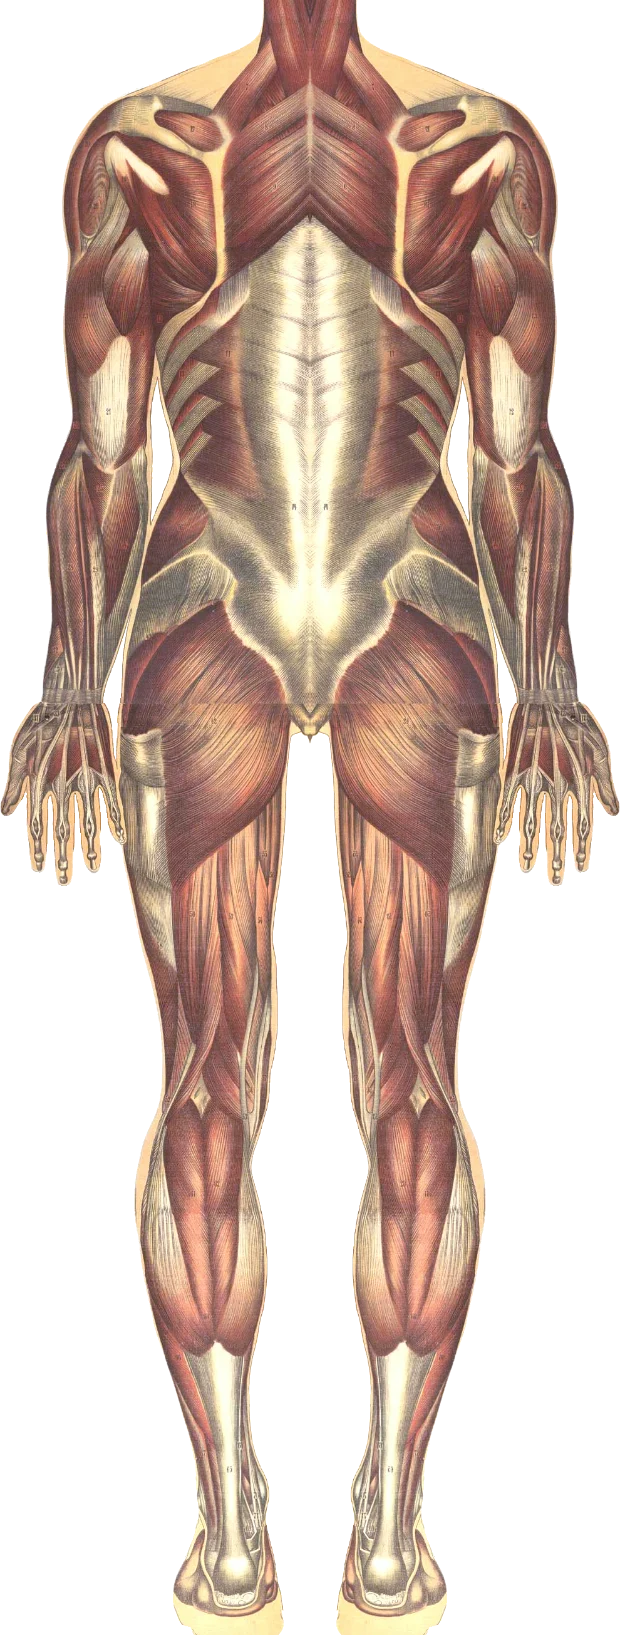
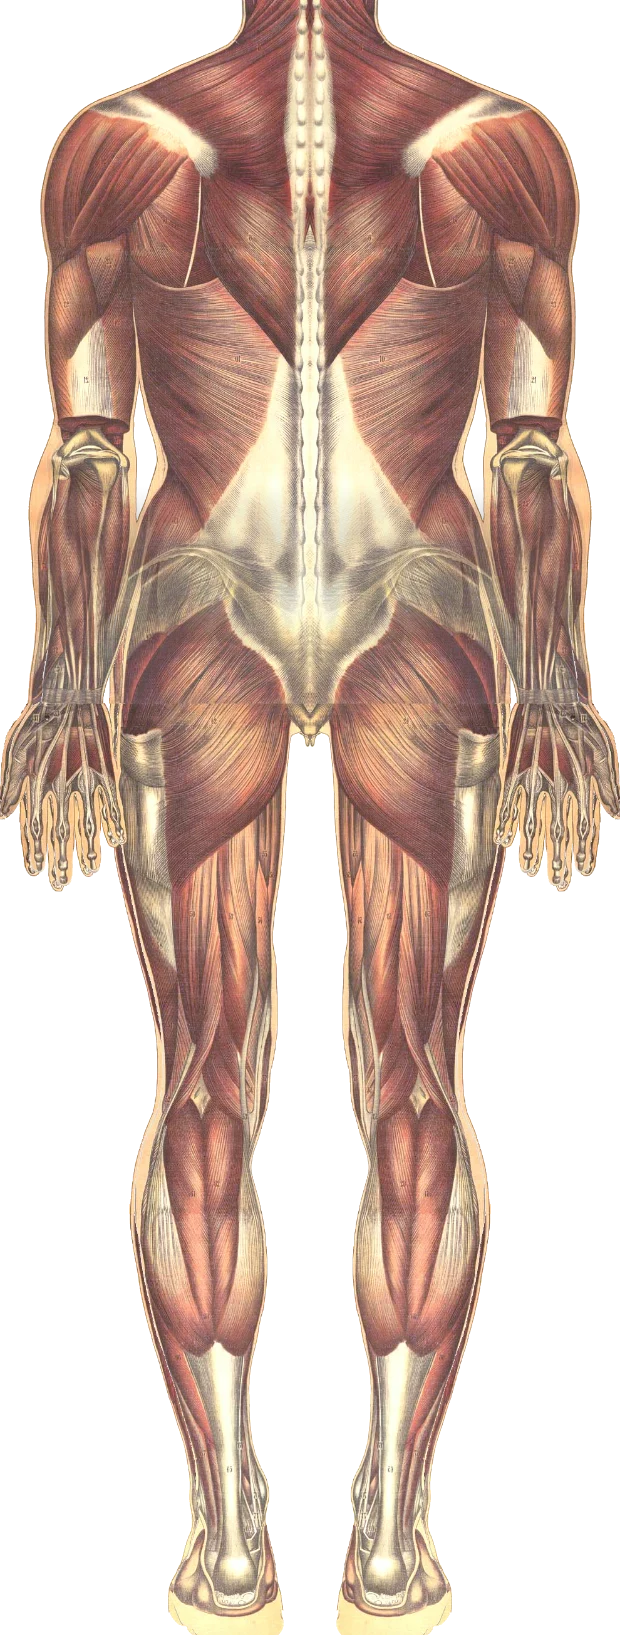
fix(forma): plansza tyłu wygląda wreszcie jak plecy
Zgłoszenie: „ciało tyłem wygląda dziwnie i nie wygląda jak tył". Diagnoza
anatomiczna potwierdziła realny błąd doboru materiału źródłowego.

PRZYCZYNA: plansza Bouglé'a pokazuje po każdej stronie INNĄ warstwę preparacji.
Odbiłem lustrzanie lewą połowę, która w górnej części jest GŁĘBOKA — czworoboczny
zdjęty, odsłonięta łopatka, nadgrzebieniowy i równoległoboczne. Stąd brak
charakterystycznego rombu kapturów i wrażenie, że to nie są plecy.

Kłopot w tym, że prawa połowa też nie nadaje się w całości: ma powierzchowną górę,
ale zdjęty pośladek wielki i głęboko spreparowane uda.

ROZWIĄZANIE: tył składany z DWÓCH powierzchownych połówek —
  • górne plecy z prawej (nienaruszony czworoboczny, najszerszy, naramienny tylny),
  • pośladki i nogi z lewej (pełny pośladek wielki, dwugłowe, łydki).
Szew poprowadzony przez powięź lędźwiową na wysokości y=1300 oryginału, z 90 px
wygaszaniem — tam obie warstwy wyglądają identycznie, więc przejście jest niewidoczne.

Maski mięśni zweryfikowane na nowej siatce kalibracyjnej — anatomia jest
wystarczająco symetryczna, wszystkie partie (kaptury, najszerszy, prostowniki,
pośladki, dwugłowe, łydki) nadal pokrywają się z podkładem. Waga 214 KB.

Weryfikacja: render wiosłowania na nowej planszy, 20 masek, zero błędów JS,
build czysty.

diff --git a/skladai/components/forma/anatomyPlate.ts b/skladai/components/forma/anatomyPlate.ts
@@ -68,6 +68,14 @@ export const FRONT_PLATE: Plate = {
 };
 
 // ───────────────────────────── TYŁ ─────────────────────────────
+/**
+ * Tył złożony z DWÓCH powierzchownych połówek oryginału: górne plecy z prawej
+ * (nienaruszony czworoboczny i najszerszy), pośladki i nogi z lewej (nienaruszony
+ * pośladek wielki). Oryginał pokazuje po każdej stronie inną warstwę preparacji,
+ * więc pojedyncze odbicie dawało albo plecy bez czworobocznego, albo miednicę
+ * bez pośladków. Szew poprowadzony przez powięź lędźwiową — tam obie warstwy
+ * wyglądają tak samo, więc przejście jest niewidoczne.
+ */
 export const BACK_PLATE: Plate = {
   src: "/anatomy/body-back.webp",
   width: 620,
